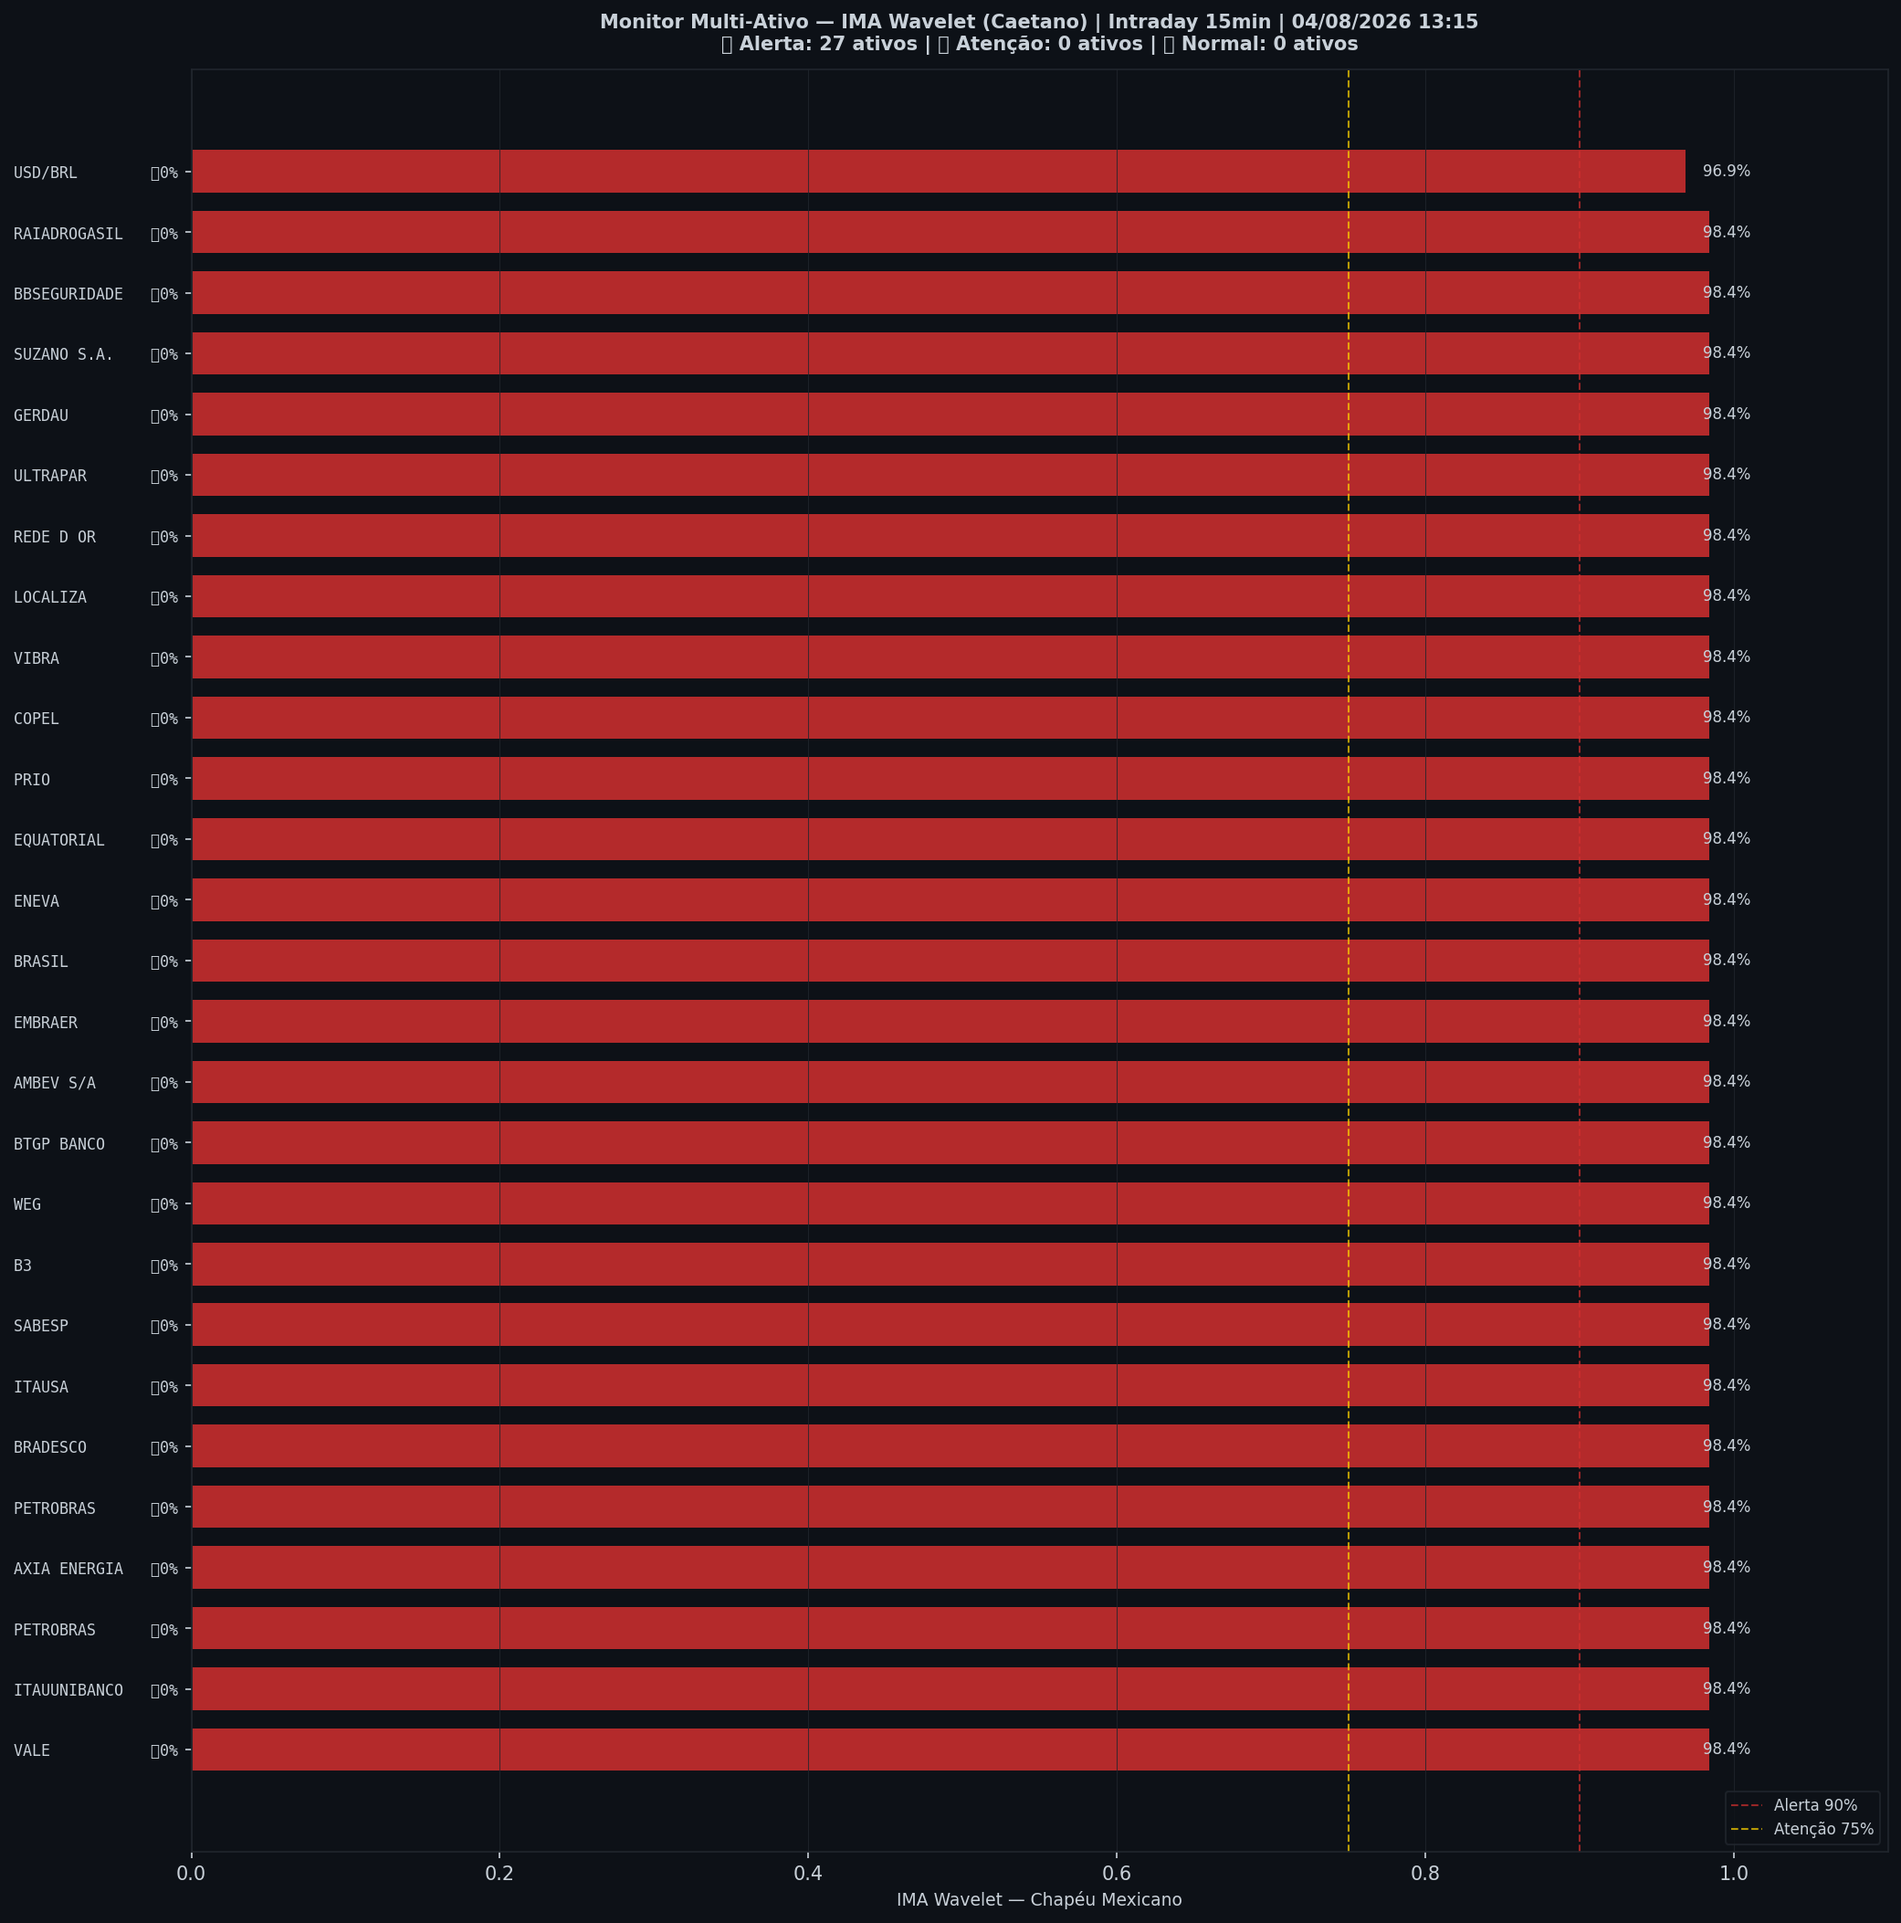
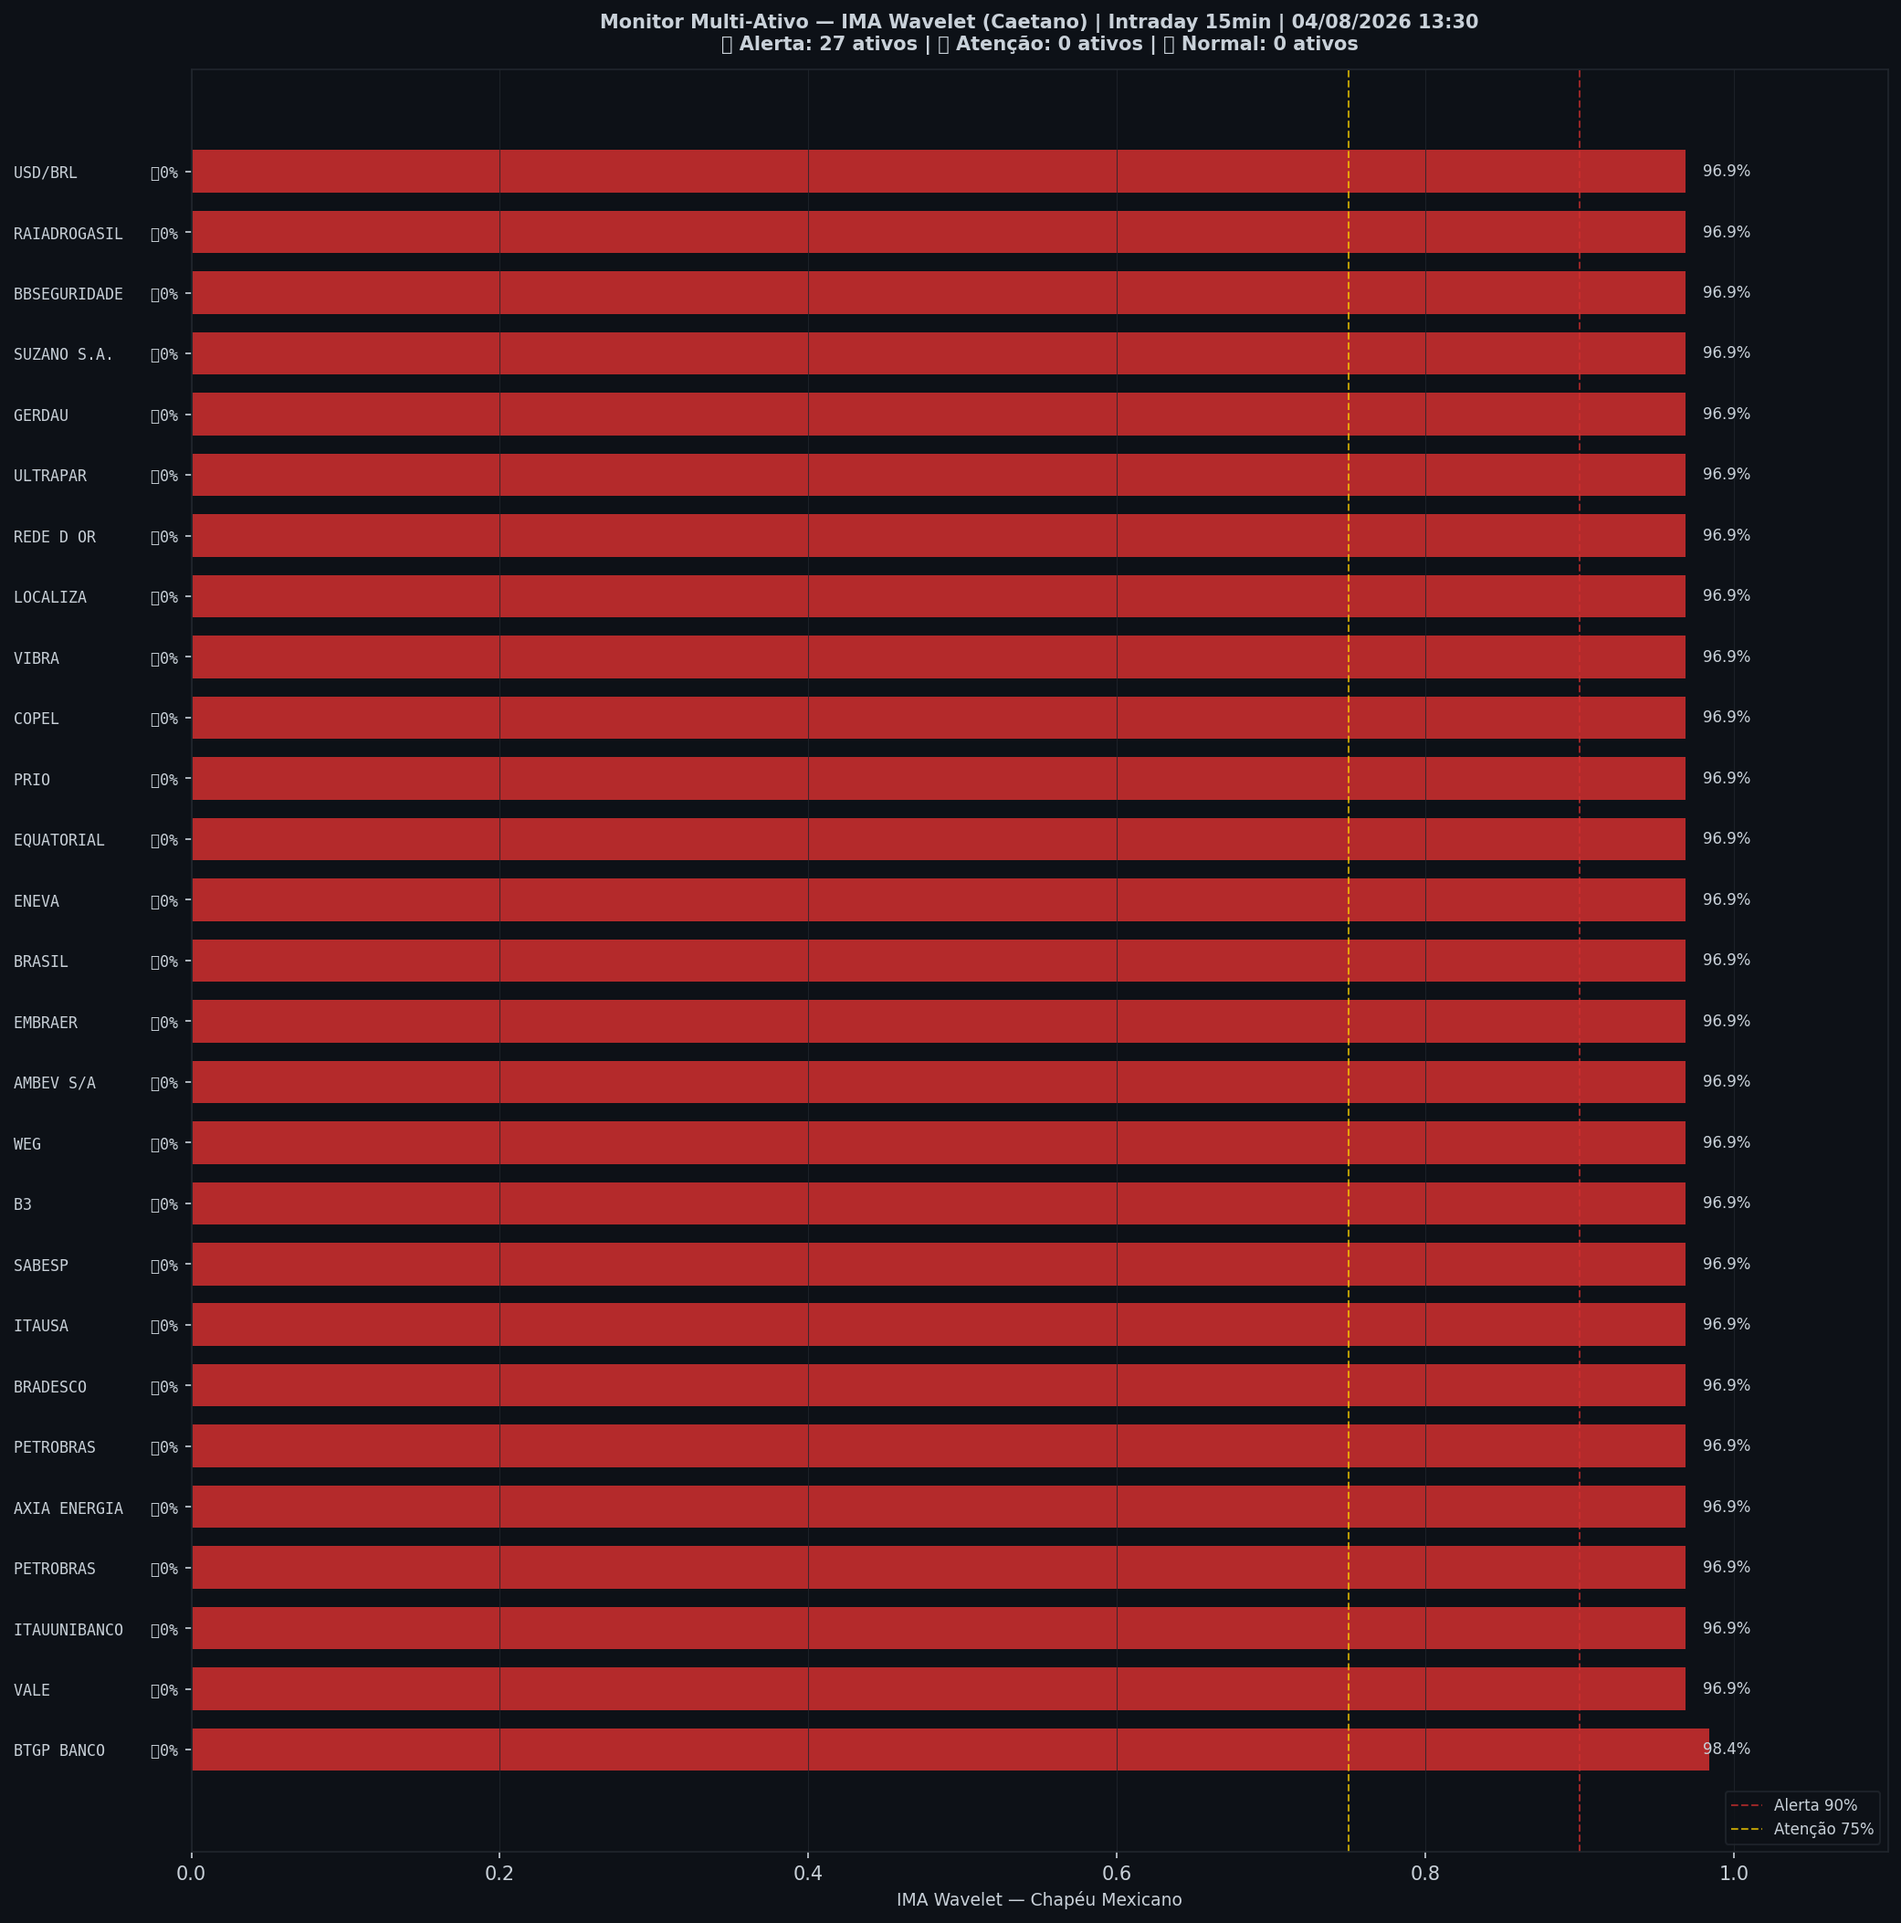
🤖 Auto: Sinal 04/08/2026 13:31

Changed region(s): [[0.8742, 0.0926, 0.9054, 0.8951], [0.0312, 0.8333, 0.0624, 0.8642]]

diff --git a/content/intraday/2026-08-04.md b/content/intraday/2026-08-04.md
@@ -1,20 +1,20 @@
 ---
-title: "🟢 Intraday 04/08/2026 12:30 BRT — VERDE"
+title: "🟢 Intraday 04/08/2026 12:45 BRT — VERDE"
 date: 2026-08-04
 tags: [intraday]
 ---
 
-> [!success] 🟢 **VERDE** — Risco 6% · ▼ -5 p.p. vs leitura anterior
-> `█░░░░░░░░░░░░░░░░░░░`
+> [!success] 🟢 **VERDE** — Risco 1% · ▼ -5 p.p. vs leitura anterior
+> `░░░░░░░░░░░░░░░░░░░░`
 > Mercado sem sinais relevantes de estresse.
 
 
 | Indicador | Valor |
 |---|---|
-| 🔴 ζ Crash — severidade da queda em curso | **6%** |
+| 🔴 ζ Crash — severidade da queda em curso | **1%** |
 | 🔵 ζ Entrada — estrutura de fundo | 0% |
 | 🫧 LPPL DS-Confidence | 0% |
-| 📊 Ibovespa | 178.377 pts |
+| 📊 Ibovespa | 178.472 pts |
 
 ![Gráfico do sinal](../graficos/sinal_intraday.png)
 
@@ -22,6 +22,7 @@ tags: [intraday]
 
 | Data | Zona | Risco | IMA Crash | Entrada | LPPL |
 |---|---|---|---|---|---|
+| 2026-08-04 12:45 | 🟢 VERDE | **1%** | 1% | 0% | 0% |
 | 2026-08-04 12:30 | 🟢 VERDE | **6%** | 6% | 0% | 0% |
 | 2026-08-04 12:15 | 🟢 VERDE | **11%** | 11% | 0% | 0% |
 | 2026-08-04 12:00 | 🟡 AMARELO | **84%** | 84% | 1% | 0% |
@@ -51,7 +52,6 @@ tags: [intraday]
 | 2026-08-03 13:00 | 🟢 VERDE | **0%** | 0% | 42% | 0% |
 | 2026-08-03 12:45 | 🟢 VERDE | **0%** | 0% | 46% | 0% |
 | 2026-08-03 12:30 | 🟢 VERDE | **0%** | 0% | 45% | 0% |
-| 2026-08-03 12:15 | 🟢 VERDE | **0%** | 0% | 48% | 0% |
 
 ## Monitor Multi-Ativo
 
@@ -59,37 +59,37 @@ tags: [intraday]
 
 | Zona | Ativo | Setor | IMA Crash | IMA Entrada |
 |---|---|---|---|---|
-| 🔴 | **VALE** | Mineração | 98.4% | 0.0% |
-| 🔴 | **ITAUUNIBANCO** | Financeiro | 98.4% | 0.0% |
-| 🔴 | **PETROBRAS** | Petróleo | 98.4% | 0.0% |
-| 🔴 | **AXIA ENERGIA** | Energia | 98.4% | 0.0% |
-| 🔴 | **PETROBRAS** | Petróleo | 98.4% | 0.0% |
-| 🔴 | **BRADESCO** | Financeiro | 98.4% | 0.0% |
-| 🔴 | **ITAUSA** | Financeiro | 98.4% | 0.0% |
-| 🔴 | **SABESP** | Saneamento | 98.4% | 0.0% |
-| 🔴 | **B3** | Financeiro | 98.4% | 0.0% |
-| 🔴 | **WEG** | Industrial | 98.4% | 0.0% |
 | 🔴 | **BTGP BANCO** | Financeiro | 98.4% | 0.0% |
-| 🔴 | **AMBEV S/A** | Consumo | 98.4% | 0.0% |
-| 🔴 | **EMBRAER** | Outros | 98.4% | 0.0% |
-| 🔴 | **BRASIL** | Financeiro | 98.4% | 0.0% |
-| 🔴 | **ENEVA** | Energia | 98.4% | 0.0% |
-| 🔴 | **EQUATORIAL** | Energia | 98.4% | 0.0% |
-| 🔴 | **PRIO** | Petróleo | 98.4% | 0.0% |
-| 🔴 | **COPEL** | Energia | 98.4% | 0.0% |
-| 🔴 | **VIBRA** | Energia | 98.4% | 0.0% |
-| 🔴 | **LOCALIZA** | Aluguel | 98.4% | 0.0% |
-| 🔴 | **REDE D OR** | Saúde | 98.4% | 0.0% |
-| 🔴 | **ULTRAPAR** | Outros | 98.4% | 0.0% |
-| 🔴 | **GERDAU** | Siderurgia | 98.4% | 0.0% |
-| 🔴 | **SUZANO S.A.** | Papel/Celulose | 98.4% | 0.0% |
-| 🔴 | **BBSEGURIDADE** | Financeiro | 98.4% | 0.0% |
-| 🔴 | **RAIADROGASIL** | Outros | 98.4% | 0.0% |
+| 🔴 | **VALE** | Mineração | 96.9% | 0.0% |
+| 🔴 | **ITAUUNIBANCO** | Financeiro | 96.9% | 0.0% |
+| 🔴 | **PETROBRAS** | Petróleo | 96.9% | 0.0% |
+| 🔴 | **AXIA ENERGIA** | Energia | 96.9% | 0.0% |
+| 🔴 | **PETROBRAS** | Petróleo | 96.9% | 0.0% |
+| 🔴 | **BRADESCO** | Financeiro | 96.9% | 0.0% |
+| 🔴 | **ITAUSA** | Financeiro | 96.9% | 0.0% |
+| 🔴 | **SABESP** | Saneamento | 96.9% | 0.0% |
+| 🔴 | **B3** | Financeiro | 96.9% | 0.0% |
+| 🔴 | **WEG** | Industrial | 96.9% | 0.0% |
+| 🔴 | **AMBEV S/A** | Consumo | 96.9% | 0.0% |
+| 🔴 | **EMBRAER** | Outros | 96.9% | 0.0% |
+| 🔴 | **BRASIL** | Financeiro | 96.9% | 0.0% |
+| 🔴 | **ENEVA** | Energia | 96.9% | 0.0% |
+| 🔴 | **EQUATORIAL** | Energia | 96.9% | 0.0% |
+| 🔴 | **PRIO** | Petróleo | 96.9% | 0.0% |
+| 🔴 | **COPEL** | Energia | 96.9% | 0.0% |
+| 🔴 | **VIBRA** | Energia | 96.9% | 0.0% |
+| 🔴 | **LOCALIZA** | Aluguel | 96.9% | 0.0% |
+| 🔴 | **REDE D OR** | Saúde | 96.9% | 0.0% |
+| 🔴 | **ULTRAPAR** | Outros | 96.9% | 0.0% |
+| 🔴 | **GERDAU** | Siderurgia | 96.9% | 0.0% |
+| 🔴 | **SUZANO S.A.** | Papel/Celulose | 96.9% | 0.0% |
+| 🔴 | **BBSEGURIDADE** | Financeiro | 96.9% | 0.0% |
+| 🔴 | **RAIADROGASIL** | Outros | 96.9% | 0.0% |
 | 🔴 | **USD/BRL** | Câmbio | 96.9% | 0.0% |
 
 ![Monitor multi-ativo](../graficos/multi_intraday.png)
 
-*Página atualizada em 04/08/2026 13:16 BRT (leitura da barra de 2026-08-04 12:30 BRT).*
+*Página atualizada em 04/08/2026 13:31 BRT (leitura da barra de 2026-08-04 12:45 BRT).*
 
 > [!info]- Como interpretar (clique para expandir)
 > - **ζ Crash**: fração dos coeficientes wavelet acima do corte (Caetano & Yoneyama 2009). Escala absoluta: ζ=0,90 = 90% dos coeficientes anômalos — historicamente, quedas com ζ≥0,90 foram mais fundas e mais longas. **Mede a severidade do movimento em curso, não prevê o início da queda.**

diff --git a/content/index.md b/content/index.md
@@ -8,19 +8,19 @@ tags: [home]
 
 Monitoramento diário e intraday do Ibovespa — **IMA Wavelet** (Prof. Marco Antonio Leonel Caetano, ITA/INSPER) + **LPPL DS-Confidence** (Prof. Didier Sornette, ETH-Zurich).
 
-*Última atualização: 04/08/2026 13:16 BRT · ^BVSP · Intraday 15min · v4*
+*Última atualização: 04/08/2026 13:31 BRT · ^BVSP · Intraday 15min · v4*
 
-> [!success] 🟢 **VERDE** — Risco 6% · ▼ -5 p.p. vs leitura anterior
-> `█░░░░░░░░░░░░░░░░░░░`
+> [!success] 🟢 **VERDE** — Risco 1% · ▼ -5 p.p. vs leitura anterior
+> `░░░░░░░░░░░░░░░░░░░░`
 > Mercado sem sinais relevantes de estresse.
 
 
 | Indicador | Valor |
 |---|---|
-| 🔴 ζ Crash — severidade da queda em curso | **6%** |
+| 🔴 ζ Crash — severidade da queda em curso | **1%** |
 | 🔵 ζ Entrada — estrutura de fundo | 0% |
 | 🫧 LPPL DS-Confidence | 0% |
-| 📊 Ibovespa | 178.377 pts |
+| 📊 Ibovespa | 178.472 pts |
 
 **Multi-ativo:** 100% em tensão (27🔴 0🟡 de 27 ativos)
 
@@ -32,7 +32,7 @@ Monitoramento diário e intraday do Ibovespa — **IMA Wavelet** (Prof. Marco An
 
 | Data | Zona | Risco | IMA | LPPL |
 |---|---|---|---|---|
-| [04 Aug 2026](diario/2026-08-04) | 🟢 VERDE | **6%** | 6% | 0% |
+| [04 Aug 2026](diario/2026-08-04) | 🟢 VERDE | **1%** | 1% | 0% |
 | [03 Aug 2026](diario/2026-08-03) | 🟢 VERDE | **46%** | 46% | 0% |
 
 ## Navegação

diff --git a/content/historico.md b/content/historico.md
@@ -7,6 +7,7 @@ tags: [historico]
 
 | Data | Modo | Zona | Risco | IMA | LPPL |
 |---|---|---|---|---|---|
+| 2026-08-04 12:45 | intraday | 🟢 VERDE | 1% | 1% | 0% |
 | 2026-08-04 12:30 | intraday | 🟢 VERDE | 6% | 6% | 0% |
 | 2026-08-04 12:15 | intraday | 🟢 VERDE | 11% | 11% | 0% |
 | 2026-08-04 12:00 | intraday | 🟡 AMARELO | 84% | 84% | 0% |
